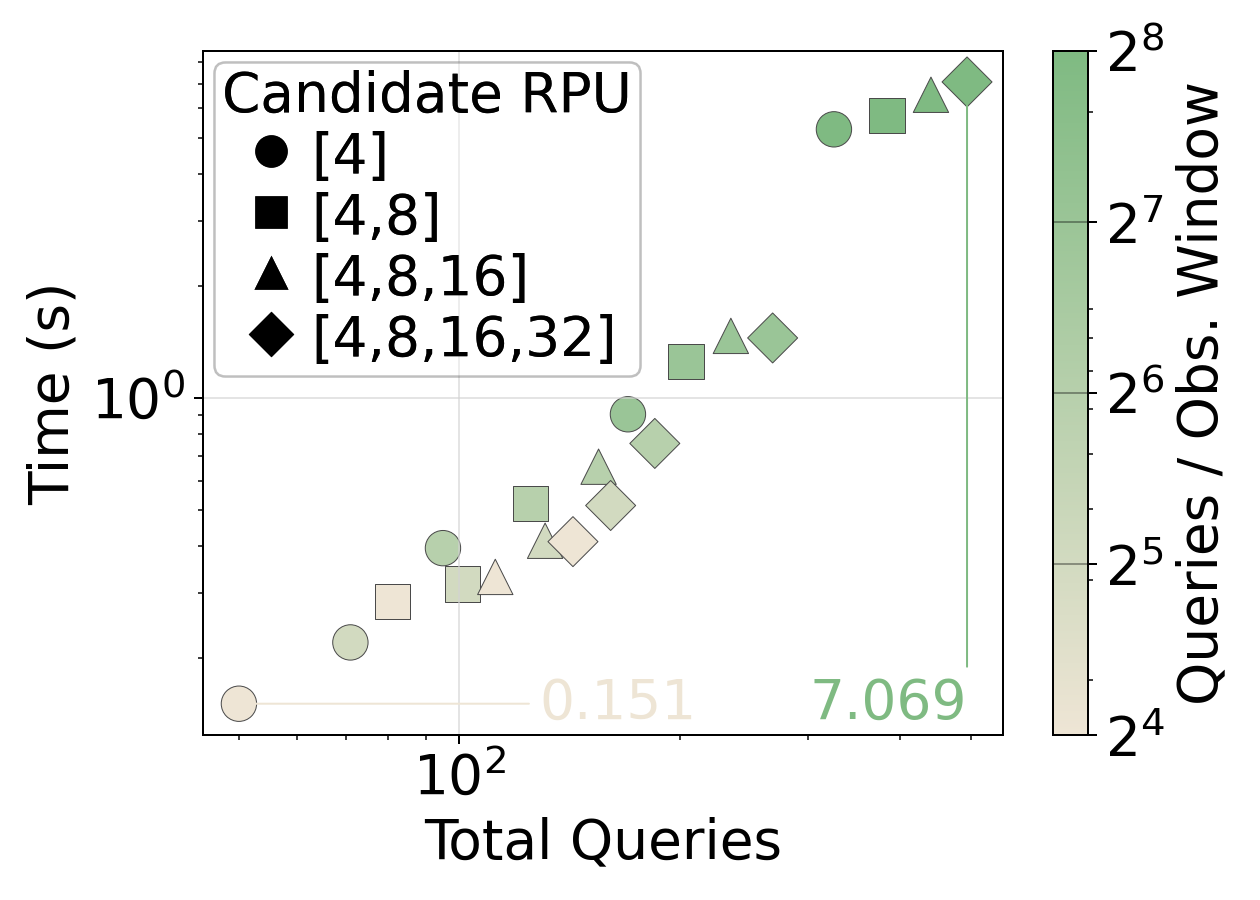
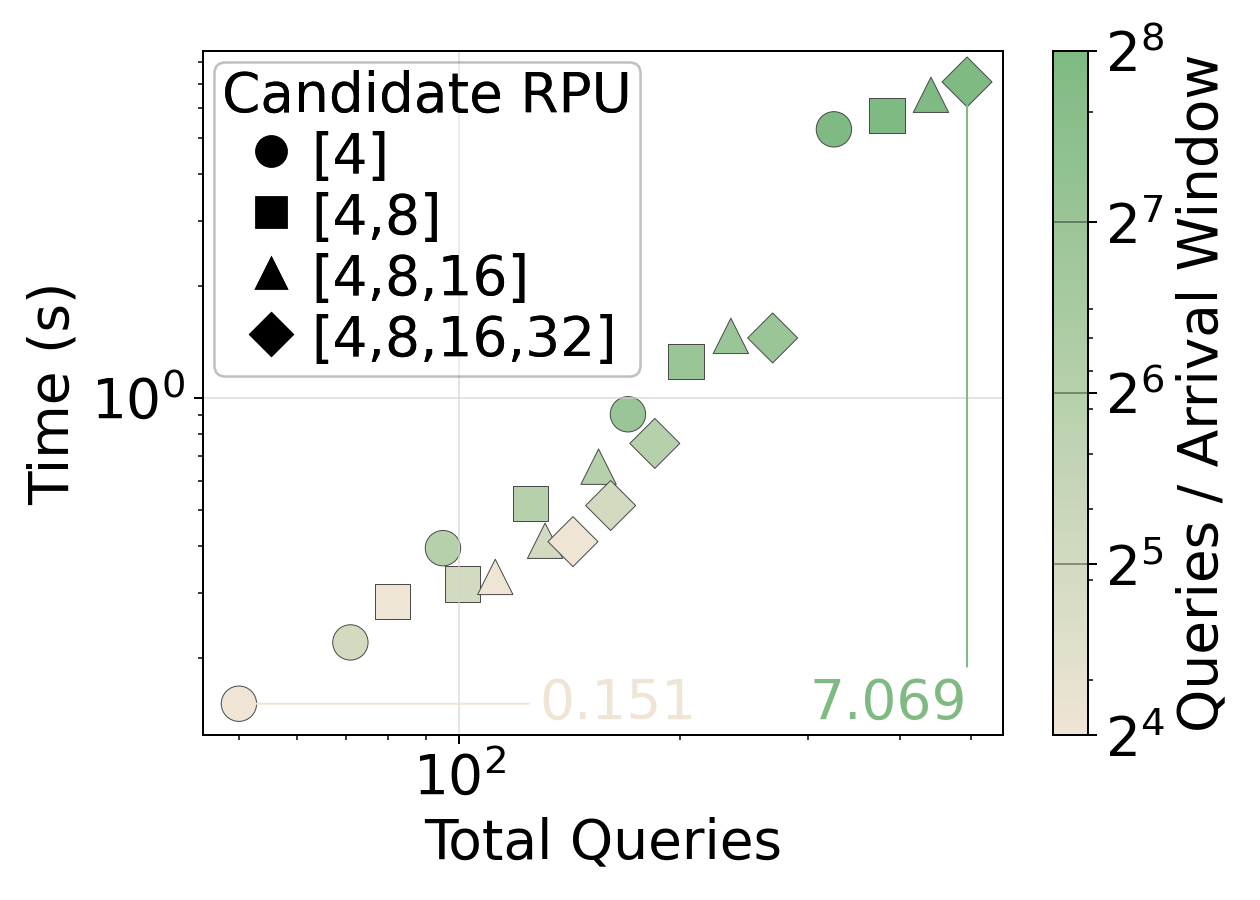
Fix autoscaler microbenchmark color bar label

Changed region(s): [[0.9286, 0.0622, 0.9905, 0.8089]]

diff --git a/src/autoslo/microbenchmarks/autoscaling_efficiency.py b/src/autoslo/microbenchmarks/autoscaling_efficiency.py
@@ -180,7 +180,7 @@ class AutoscalingEfficiencyBenchmark(MicrobenchmarkRunner):
             shape_col="candidate_rpu",
             color_col="queries_per_obs_window",
             shape_legend_title="Candidate RPU",
-            colorbar_label="Queries / Obs. Window",
+            colorbar_label="Queries / Arrival Window",
             cmap_colors=[
                 Palette.cream,
                 Palette.light_green,
